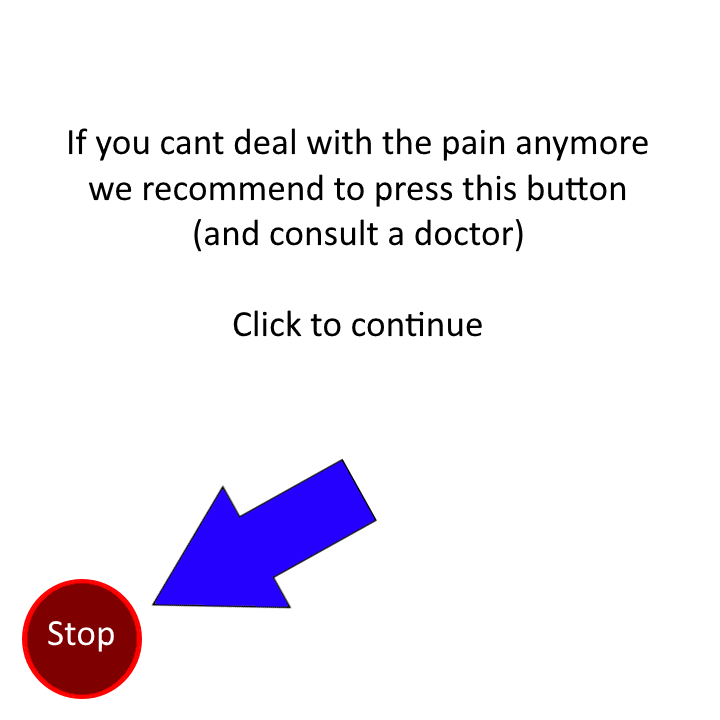
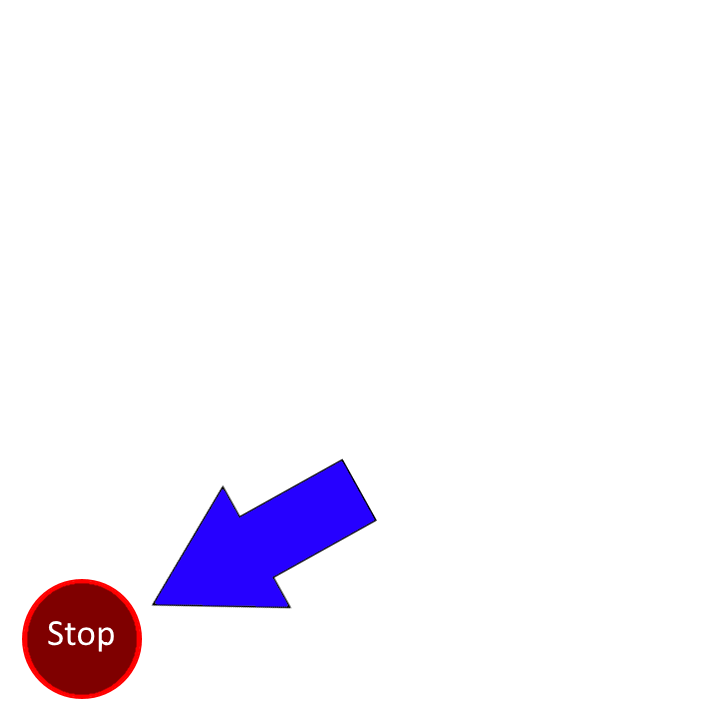
Neue Fragen

Changed region(s): [[0.1222, 0.2444, 0.8861, 0.3667], [0.0917, 0.1833, 0.9167, 0.2139], [0.3056, 0.4278, 0.6722, 0.4889]]

diff --git a/HorrorGame/src/main.cpp b/HorrorGame/src/main.cpp
@@ -18,14 +18,15 @@ int main()
 {
 
 	sf::RenderWindow window(sf::VideoMode(720, 720), "Horror Game");
-	sf::Texture monitor_texture, button_texture, message1_texture, message2_texture, message3_texture;
+	sf::Texture monitor_texture, button_texture, message1_texture, message2_texture, message3_texture, message4_texture;
 	monitor_texture.loadFromFile("./res/Monitor.png");
 	button_texture.loadFromFile("./res/Button.png");
 	message1_texture.loadFromFile("./res/Message_1.png");
 	message2_texture.loadFromFile("./res/Message_2.png");
 	message3_texture.loadFromFile("./res/Message_3.png");
+	message4_texture.loadFromFile("./res/Message_4.png");
 
-	sf::Sprite monitor, button, message1, message2, message3;
+	sf::Sprite monitor, button, message1, message2, message3, message4;
 	monitor.setTexture(monitor_texture);
 	monitor.setPosition(0.f, 0.f);
 
@@ -38,13 +39,14 @@ int main()
 
 	message2.setTexture(message2_texture);
 	message3.setTexture(message3_texture);
+	message4.setTexture(message4_texture);
 
 	bool button_pressed = false;
 	int menu_status = 0;
 
 	while (window.isOpen())
 	{
-		if (menu_status <= 2)
+		if (menu_status <= 3)
 			window.clear(sf::Color(25, 25, 25));
 		else
 			window.clear(sf::Color(RGBGenerator(), RGBGenerator(), RGBGenerator(), 255));
@@ -59,6 +61,9 @@ int main()
 
 		else if (menu_status == 2)
 			window.draw(message3);
+
+		else if (menu_status == 3)
+			window.draw(message4);
 
 		else
 		{
@@ -79,7 +84,7 @@ int main()
 			else if (event.type == sf::Event::MouseButtonPressed)
 			{
 
-				if (menu_status <= 2)
+				if (menu_status <= 3)
 					menu_status++;
 				else
 				{
